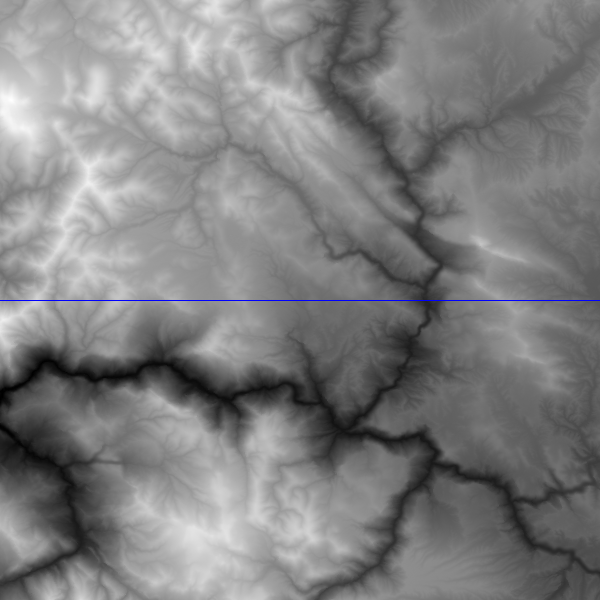
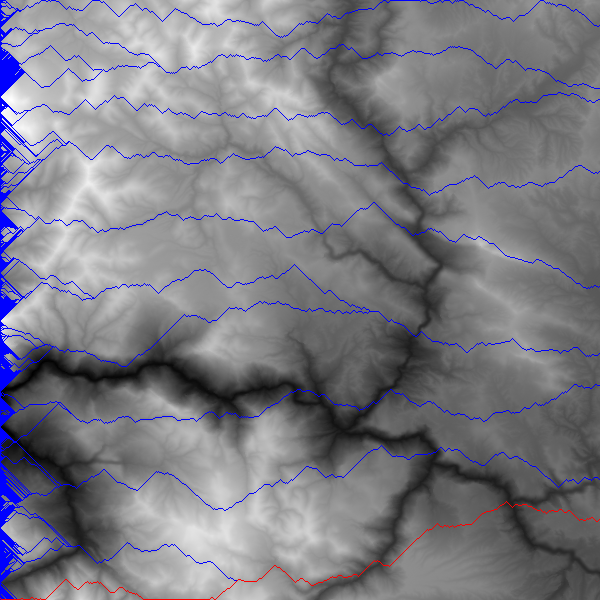
draws lines and indicates best line

diff --git a/practice.py b/practice.py
@@ -11,6 +11,8 @@ class Map:
         self.brightness_list = []
         self.elevation_grid = []
         self.image = Image.new('RGBA', (600, 600), (0, 0, 0, 255))
+        self.best_elev_delta = 10000000000000
+        self.best_y = 0
 
     
     def get_elevation_data(self, data):    
@@ -34,21 +36,52 @@ class Map:
             self.elevation_grid.append(current_elevation_row)
         # print(self.brightness_list)
         # print(self.elevation_grid)
+           
+    def get_next_y(self, x, y_coord):
+        current_position = self.elevation_grid[x][y_coord]
+        if x >= 599:
+            return -1
+        else: 
+            right = abs((self.elevation_grid[y_coord][x+1]) - current_position)
+
+        if y_coord == 0:
+            up_right = 10000000000000
+        else:
+            up_right = abs((self.elevation_grid[y_coord-1][x+1]) - current_position)
+
+        if y_coord == 599:
+            down_right = 1000000000000 
+        else:   
+            down_right = abs((self.elevation_grid[y_coord+1][x+1]) - current_position)
+
+        min_val = min(right, up_right, down_right)
 
         
+        if min_val == right:
+            return y_coord
+        elif min_val == down_right:
+            return y_coord + 1
+        elif min_val == up_right:
+            return y_coord - 1
 
-        # for elevation in data:
-        #     pixel_color = self.get_brightness(elevation)
-        #     self.brightness_list.append(pixel_color)
-           
         
     def find_path(self, y_coord):
-        # right = 
-        # up_right = 
-        # down_right = 
-        for x in range (600):
-            self.image.putpixel((x, 300), ImageColor.getcolor('blue', 'RGBA'))
-        
+        cur_elev_delta = 0
+        cur_y = y_coord
+        for x in range (600):   
+            self.image.putpixel((x, y_coord), ImageColor.getcolor('blue', 'RGBA'))
+            y = y_coord
+            y_coord = self.get_next_y(x, y_coord)
+            # Do something with cur_elev..
+            if x < 599:
+                cur_elev_delta += abs(self.elevation_grid[x][y] - self.elevation_grid[x+1][y_coord])
+
+        # compare self.best_elev_delta and cur_elev_delta
+        if cur_elev_delta < self.best_elev_delta:
+            self.best_elev_delta = cur_elev_delta
+            self.best_y = cur_y
+        print(self.best_y)
+        print(self.best_elev_delta)
 
     def draw_map(self):
         # Converts self.brightness_list to picture
@@ -58,7 +91,6 @@ class Map:
             for y in range(600):
                 self.image.putpixel((y, x), (self.brightness_list[x][y]))
                 # self.find_path(300)
-
 
     def save_map(self):
         self.image.save('new_map.png')
@@ -70,22 +102,9 @@ class Map:
         return (color, color, color, 255)
    
 
-class Path:
-    def __init__(self, elevation, map):
-        self.map = map1
-        self.elevation = elevation
-
-    
-
-
-
-
 with open ("elevation_small.txt") as file:
     data = file.read().split()
     data = [int(i) for i in data]
-
-
-
 
 our_data = data
 
@@ -95,7 +114,13 @@ map1 = Map(our_data)
 
 map1.draw_map()
 
-map1.find_path(300)
+for y_coord in range(600):
+    map1.find_path(y_coord)
+
+y_coord = map1.best_y
+for x in range (600):   
+    map1.image.putpixel((x, y_coord), ImageColor.getcolor('red', 'RGBA'))
+    y_coord = map1.get_next_y(x, y_coord)
 
 map1.save_map()
 
